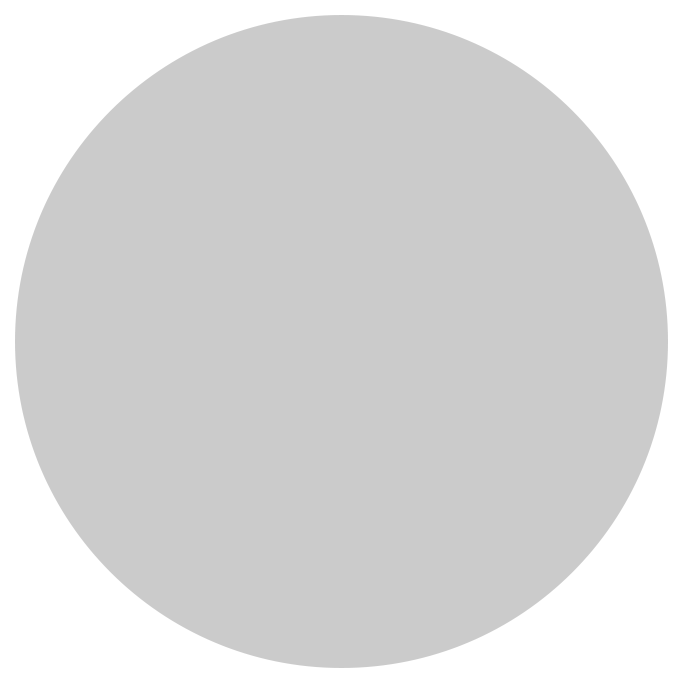
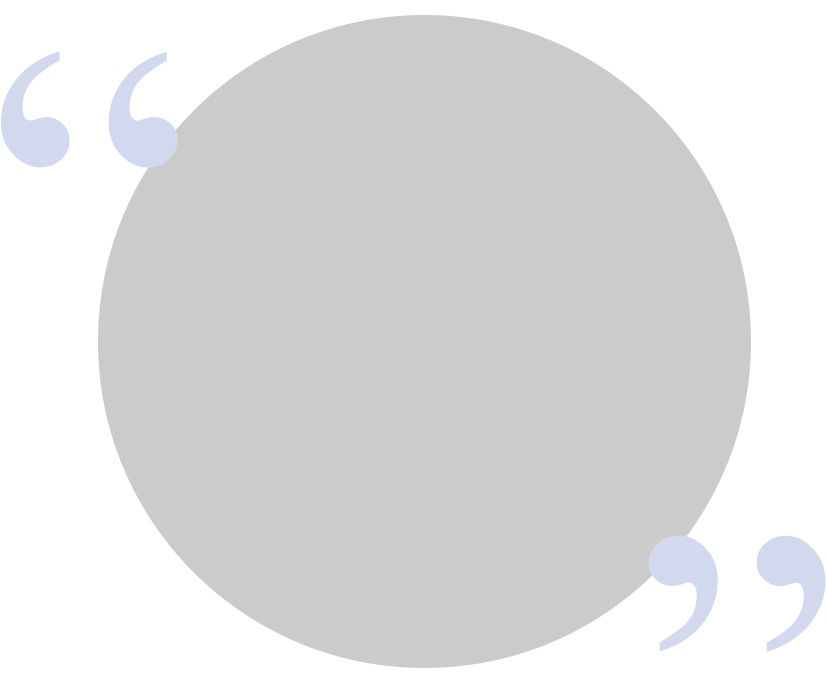
Initial commit for Singlepage branch.

diff --git a/index.html b/index.html
@@ -54,39 +54,104 @@
         </div>
     </nav>
     
-    <!--Content-->
+    <!-- First Content-->
+<div class="container-fluid" style="height:100vh;width:100vw;">
     <div class="container"> 
       <div class="row">
          <div data-parallax='{"y": 30, "from-scroll": 50, "distance": 0, "smoothness": 50}' class="col-lg-12">
             <div id="quotation">
-             <p id="quoteone" data-parallax='{"y": 15, "from-scroll": 50, "distance": 0, "smoothness": 50}'>&#8220</p>
+             <!--<p id="quoteone" data-parallax='{"y": 15, "from-scroll": 50, "distance": 0, "smoothness": 50}'>&#8220</p>
              <p id="quotetwo" data-parallax='{"y": 15, "from-scroll": 50, "distance": 0, "smoothness": 50}'>&#8221
-                </p>
+                </p>-->
              <div id="quote-parallax" data-parallax='{"y": 15, "from-scroll": 50, "distance": 0, "smoothness": 30}'>
-               <p class="text-center" id="quotepants">
+               <p id="quotepants">
                Supposing is<br><em>good</em>,<br>but finding out <br>is <strong>
                <font style="color: #5698d4;">better</font></strong>
                </p>
              </div>    
            </div>        
-           <p  id="twain" data-parallax='{"y": -5, "from-scroll": 50, "distance": 0, "smoothness": 50}'>- Mark Twain</p>
+           <!--<p id="twain" data-parallax='{"y": -5, "from-scroll": 50, "distance": 0, "smoothness": 50}'>- Mark Twain</p>-->
            <br><br>
         </div>
       </div>
     </div>
-    <div class="container">
+    <div class="container-fluid">
           <div class="row">
                     <div class="col-lg-12">
-                        <p><h2 class="text-center">Learn the rules so you know how to break them properly</h2><hr></p>
-                        <p>Hey! I'm Kristen. I design branding, advertising, front-end, and UX/UI; I'm also a traditional artist and I create illustrations and portraiture primarily with pencils. My goal is to create multifaceted experiences with carefully crafted designs. I've worked with small businesses and large corporations alike. Some of the brands I’ve designed for are Dunkin' Donuts, Party City, and AutoNation.</p>
-                        <p>My philosophy is that easy should be hard. I pursue design that does it's job without you noticing it. Good design not only conveys its message with confidence, but it also does it with brevity and wit. Design not only applies to graphics but to every facet of communication and presentation in art, fashion, movies, literature, and more. Few things are more annoying than not being able to focus on one character in a scene, find the date on a flyer, or when you buy an entire package of raisin oatmeal cookies thinking they’re chocolate chip. The study of design is really the study of people, and boy, is there a lot to learn.</p>
-                        <p>I hope to continue my career in the visual arts and continually search to make the world a more beautiful (or at least less frustrating) place.</p><br><br>
+                        <p><h2 class="text-center">Learn the rules so you know how to break them properly</h2></p>
+                        <p class="intro-text text-center">Hey! I'm Kristen. I design branding, advertising, front-end, and UX/UI; I'm also a traditional artist and I create illustrations and portraiture primarily with pencils. My goal is to create multifaceted experiences with carefully crafted designs. I've worked with small businesses and large corporations alike. Some of the brands I’ve designed for are Dunkin' Donuts, Party City, and AutoNation.</p>
                     </div>
-                </div>
           </div>
+    </div>
+    <span data-parallax='{"y": 30, "from-scroll": 50, "distance": 0, "smoothness": 50}' class="glyphicon glyphicon-circle-arrow-down arrow-scroll"></span>
+</div>
+<div class="container-fluid" style="height:100vh;width:100vw;background-color:#fafafa;">
+    <div class="container" style="padding:200px 60px 150px;"> 
+            <div class="col-lg-12">
+                <p><h2 class="text-center">Kristen Hanlon: artist, designer, pug expert</h2></p>
+                <p><hr></p>
+                <p class="about-myself">My introduction to design began as a complete mistake. In college I was originally a STEM student, working in a research lab and pursuing a career in molecular genetics. I was happily going through my life when upon being elected as the secretary of a biology club, the responsibility of designing a website and creating a logo was thrust onto me. Frustrated, I hit the internet to learn where to begin. I begrudgingly started working on a branding package and before I knew it, I was flabbergasted; I fell in love! I couldn’t believe it! The person who spent 8 hours a day in a sterile white coat was mesmerized by colors and shapes! I was undeniably enamored with combining all these elements to create a product that would inspire other students and bring people together. I felt like I was on top of the world and I knew then that there was no going back.</p>
 
-    <!-- End of Spiel -->
+<p class="about-myself">Still a STEM student at heart, I love solving creative visual problems with logic.<a href="docs/hanlon_resume.pdf" target="_blank"> Take a copy of my resume!</a></p><br>    
+            </div>
+        </div>
+    <div class="row">
+        <div class="col-sm-3 hover-desktop">
+            <p><span class="icon-skills ti-desktop" id="icon-skills"></span></p>
+            <h4 class="text-center">FRONT END WEB</h4>
+            <p class="small">I develop responsive front-end designs either from scratch or with the help of popular frameworks like Bootstrap. I have worked for over a year providing web services to the College of Education at UCF; I mainly work with DreamWeaver, coldfusion, Brackets, and frameworks like Bootstrap.<br></p>
+            <p>
+                <ul>
+                    <li class="small">HTML5 &amp; CSS3</li>
+                    <li class="small">JS/JQuery</li> 
+                    <li class="small">CMS</li>
+                    <li class="small">Git based version control</li>
+               </ul>
+            </p>
+        </div>
+        <div class="col-sm-3 hover-pencil" >
+            <span class="icon-skills ti-ruler-pencil" id="icon-skills"></span>
+            <h4 class="text-center">UX/UI DESIGN</h4>
+            <p id="hovernator" class="small">As a designer, I really love creating simple and beautiful interfaces that help tell a dynamic story. I find UX/UI design to be the most challenging; I love merging the creative processe with testing and refinement.<br>
+                <ul id="hovernator2">
+                    <li class="small" id="hovernator">Assessments</li>
+                    <li class="small" id="hovernator">Wireframing</li> 
+                    <li class="small" id="hovernator">Prototyping</li> 
+               </ul>
+            </p>
+        </div>
+        <div class="col-sm-3 hover-vector">
+            <p><span class="icon-skills ti-vector" id="icon-skills"></span></p>
+            <h4 class="text-center">GRAPHIC DESIGN</h4>
+            <p class="small">I've worked in graphic design now for over 6 years. I really enjoy working with businesses to create creative visual solutions. I have work history not only in graphic design, but also marketing and advertising<br></p>
+            <p>
+                <ul>
+                    <li class="small">Brand identity &amp; management</li>
+                    <li class="small">Packaging design</li> 
+                    <li class="small">Advertisements and marketing material</li> 
+                    <li class="small">Editorial and publications</li>
+               </ul>
+            </p>
+        </div>
+        <div class="col-sm-3 hover-palette">
+            <p><span class="icon-skills ti-palette" id="icon-skills"></span></p>
+            <h4 class="text-center">TRADITIONAL MEDIA</h4>
+            <p class="small">I love to make things with my hands, from staining wood to large scale pencil portraits. I've won awards from institutions like the Scholastic Art Showcase and I have pieces shown around small galleries in Orlando.<br></p>
+            <p>
+                <ul>
+                    <li class="small">Graphite &amp; color portraiture</li>
+                    <li class="small">Illustration</li> 
+                    <li class="small">Poster design</li> 
+               </ul>
+            </p>
+        </div>
+  </div>
+</div>
+</div>
     
+    
+    
+    <!-- Footer -->
         <footer>
         <div class="container">
             <div class="row">

diff --git a/css/bootstrap.css b/css/bootstrap.css
@@ -1375,7 +1375,7 @@ h1,
 }
 h2,
 .h2 {
-  font-size: 30px;
+  font-size: 5vh;
 }
 h3,
 .h3 {
@@ -4549,17 +4549,24 @@ select[multiple].input-group-sm > .input-group-btn > .btn {
   z-index: 5;
   font-family: 'Roboto Slab', serif;
   font-weight: 300;
-  font-size: 7.5vmin;
+  font-size: 6vmin;
+  text-align: center;
   color: #ffffff;
-  vertical-align: middle;
   width: 100%;
   background-image: url(../imgs/ellipse.png);
   background-repeat: no-repeat;
   background-blend-mode: overlay;
-  height: 65vh;
-  background-size: contain;
+  height: 50vh;
+  background-size:contain;
   background-position: center;
+}
 
+#quotation p {
+    margin-left: 2%;
+}
+
+.intro-text {
+  padding: 0 15%;
 }
 
 #quotepants {
@@ -4573,22 +4580,32 @@ select[multiple].input-group-sm > .input-group-btn > .btn {
   z-index: 15;
   font-family: 'Times New Roman', serif;
   font-weight: 400;
-  font-size: 34.0vmin;
+  font-size: 25.0vmin;
   top: -5.0vmin;
   color: #d2d9ef;
   left: 22.5vw;
 }
 
+.arrow-scroll {
+    display: block;
+    box-sizing: border-box;
+    position: absolute;
+    top: 90%;
+    left: 50%;
+    text-align: center;
+    color: #d2d9ef;
+    font-size: 5vmin;
+}
 
 #quotetwo {
   position: absolute;
   z-index: 16;
   font-family: 'Times New Roman', serif;
   font-weight: 400;
-  font-size: 34.0vmin;
+  font-size: 25.0vmin;
   color: #d2d9ef;
-  right: 24vw;
-  top: 35vh;
+  right: 22.5vw;
+  top: 30vh;
 }
 
 #twain {
@@ -4596,7 +4613,7 @@ select[multiple].input-group-sm > .input-group-btn > .btn {
   z-index: 30;
   font-family: 'Roboto', sans-serif;
   text-transform: uppercase;
-  font-weight: 400;
+  font-weight: 100;
   font-size: 1.8vmin;
   color: #d2d9ef;
   right: 26vw;
@@ -4628,6 +4645,10 @@ select[multiple].input-group-sm > .input-group-btn > .btn {
   background-color: transparent;
 }
 
+.about-myself {
+  color: #4a4a4a; 
+  text-align: center;
+}
 
 @media (max-width: 768px) {
     #quotation {
